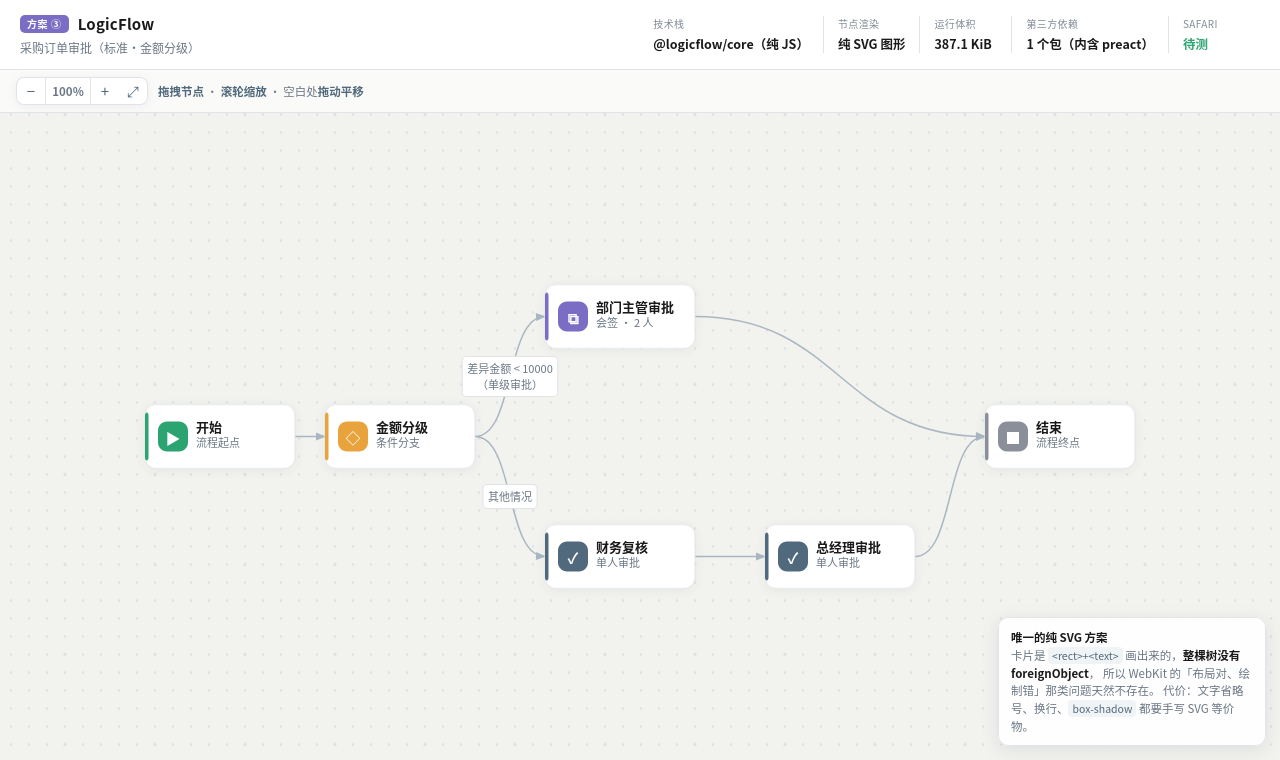
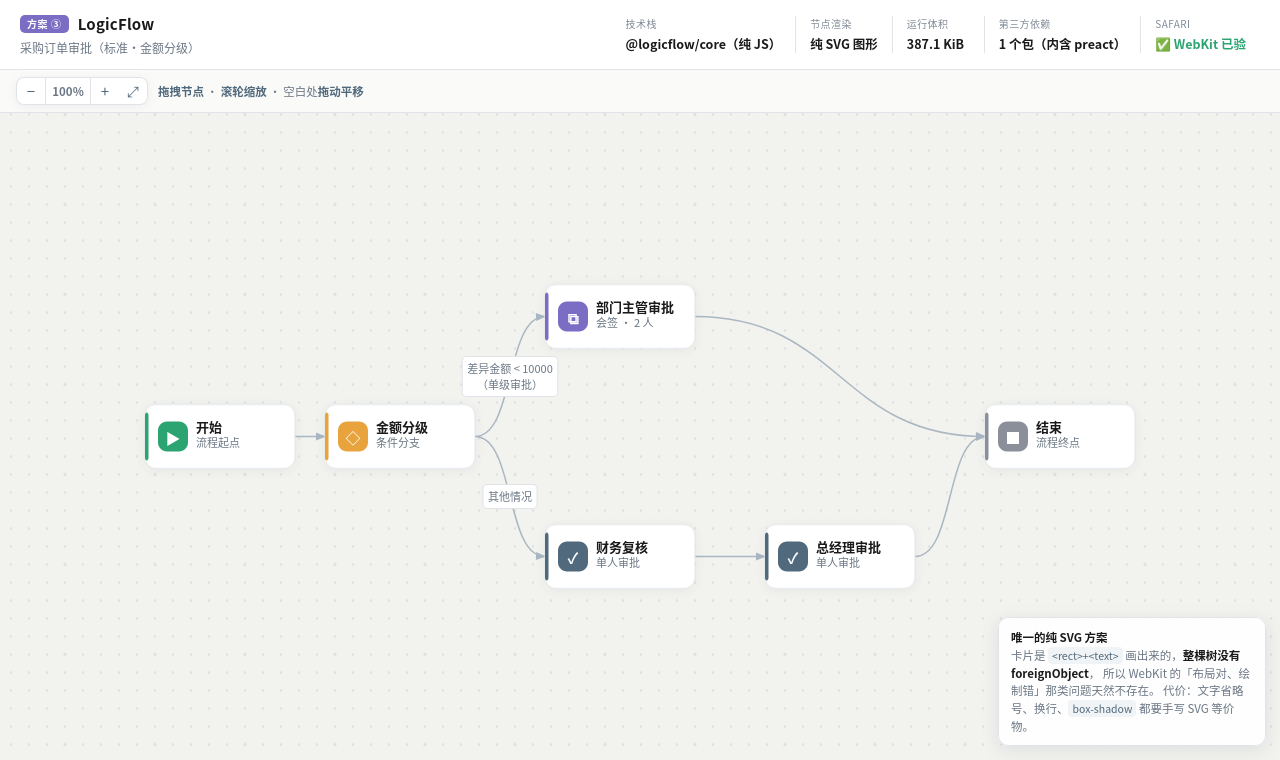
feat(poc): POC-FLOW 信息栏 Safari 状态改为「WebKit 已验」+ 证据同步线上抓取

Changed region(s): [[0.4688, 0.0303, 0.9688, 0.0908]]

diff --git a/frontend/public/demo/flow-poc/demo-logicflow.html b/frontend/public/demo/flow-poc/demo-logicflow.html
@@ -43,7 +43,7 @@
       </div>
       <div class="poc-metric">
         <div class="poc-metric__k">Safari</div>
-        <div class="poc-metric__v is-ok" id="mSafari">待测</div>
+        <div class="poc-metric__v is-ok" id="mSafari">✅ WebKit 已验</div>
       </div>
     </div>
   </header>

diff --git a/frontend/public/demo/flow-poc/demo-vue-flow.html b/frontend/public/demo/flow-poc/demo-vue-flow.html
@@ -51,7 +51,7 @@
       </div>
       <div class="poc-metric">
         <div class="poc-metric__k">Safari</div>
-        <div class="poc-metric__v is-ok" id="mSafari">待测</div>
+        <div class="poc-metric__v is-ok" id="mSafari">✅ WebKit 已验</div>
       </div>
     </div>
   </header>
